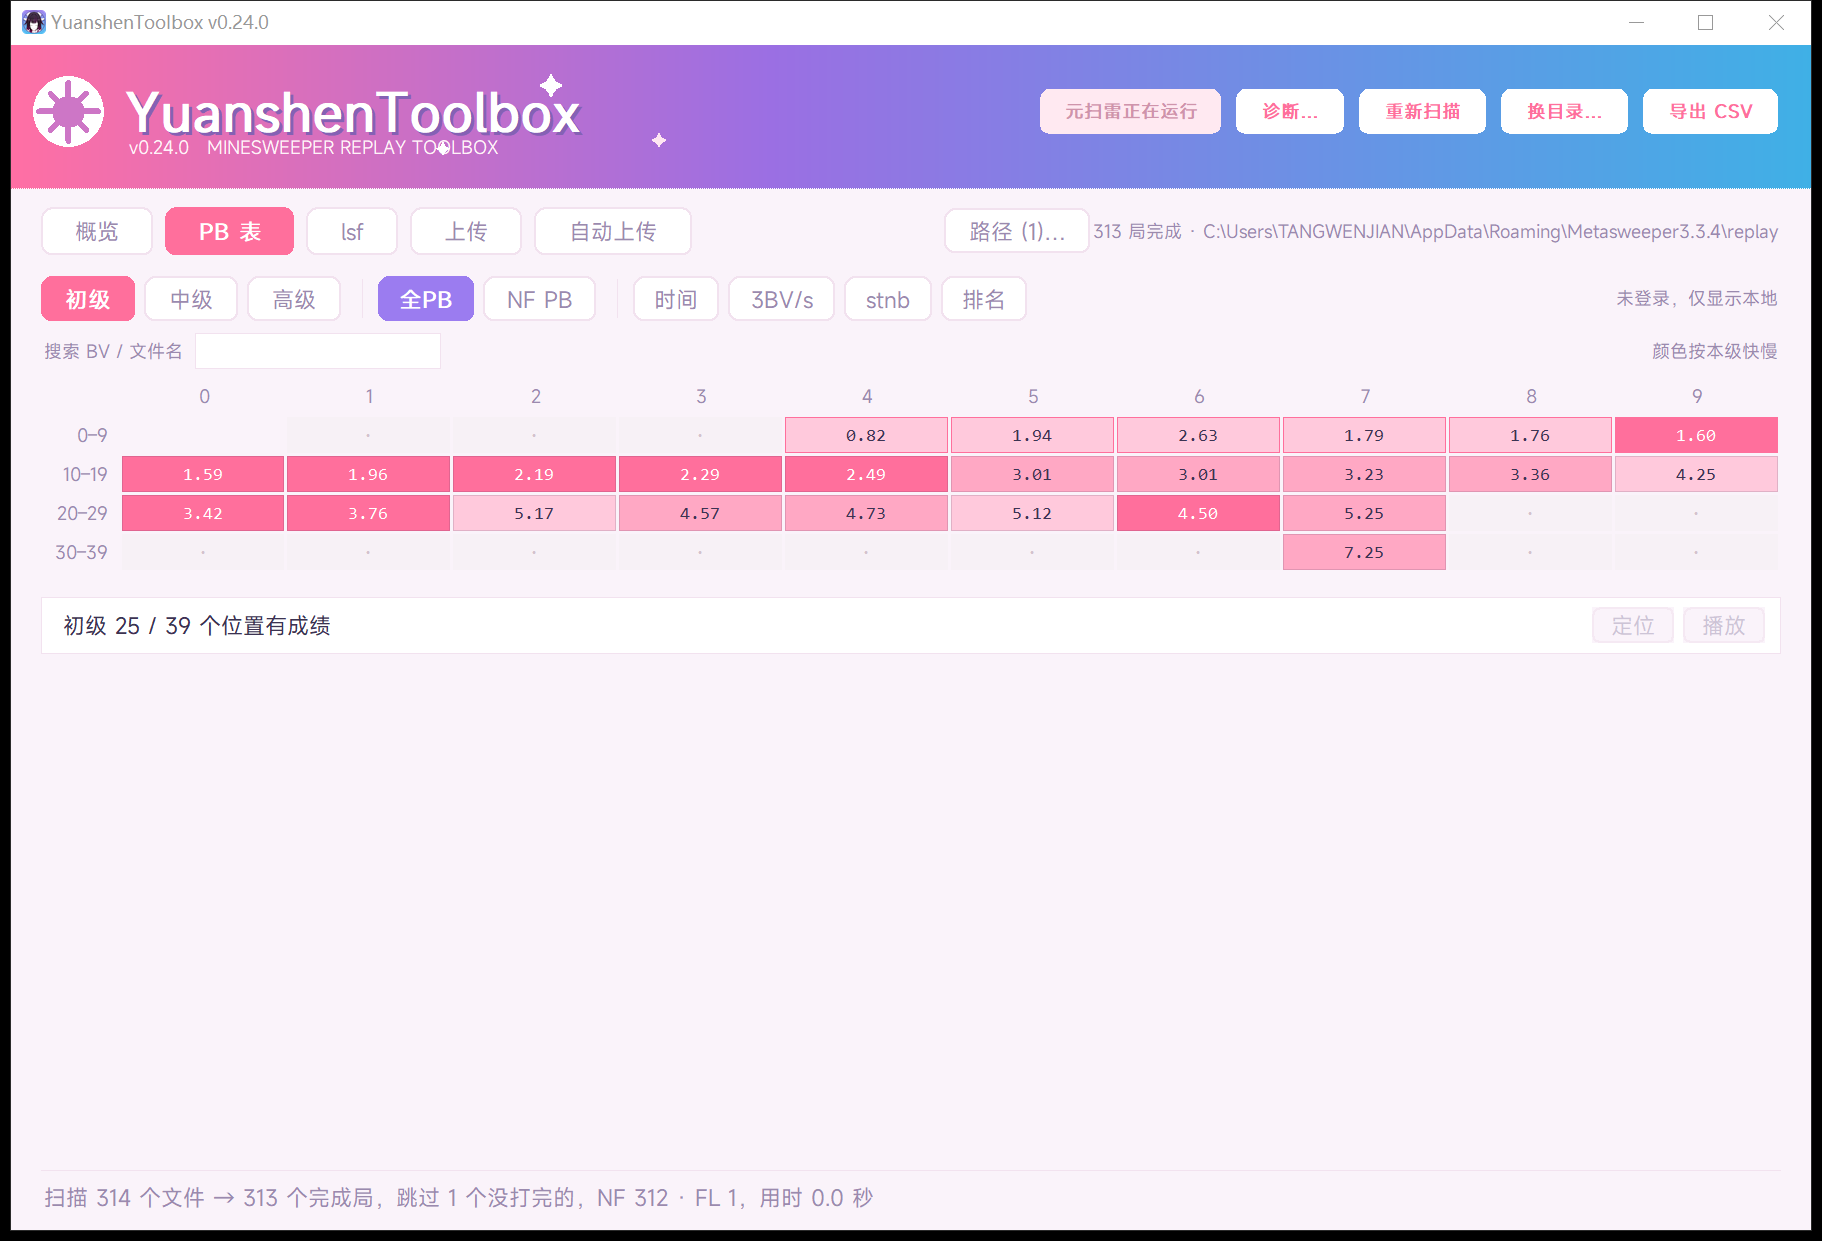
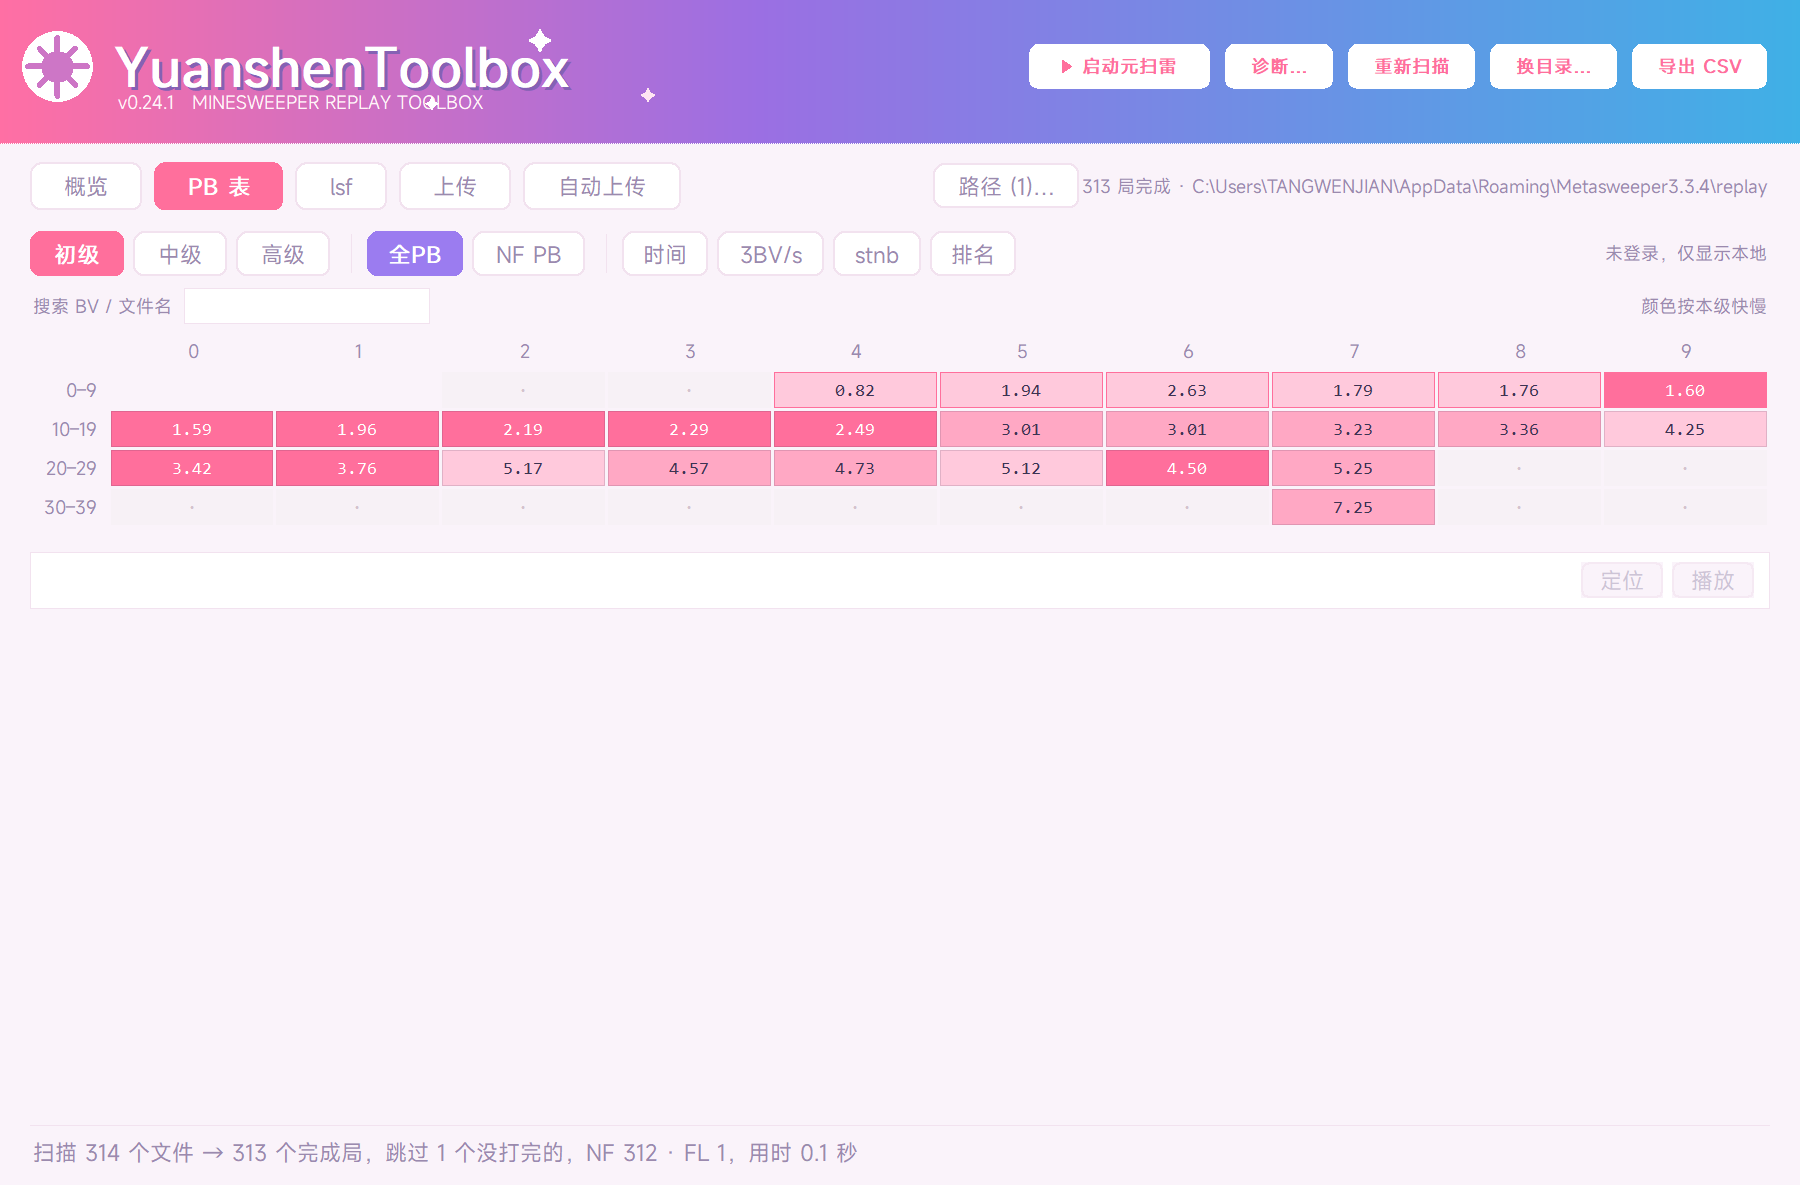
v0.24.1：PB 网格下限固定在级别起点，详情条去掉「几 / 个位置」
「初级 25 / 39 个位置有成绩」里的 39 是网格格数（本机最小 BV 到最大 BV
铺出来的格子），不是初级一共有多少 BV，看的人容易当成后者。上限按已有成绩
走也有代价：初级只打过 4–37，开头 0–9 段整段不出现，看不出这一段长什么样。

- 新增 PB_BV_FLOOR = {b: 2, i: 30, e: 100}：网格下限固定到级别起点，
  上限仍跟着已有最大 BV（画到它所在的那一段），不会平白多出一片空行。
- 初级 0–9 那行的 0、1 两格留空 —— BV 从 2 起，画出来只是噪声。
- 详情条不再报「N / M 个位置」，搜索时只留「搜到 N 个」。
- test_smoke 补四项：第一行从起点段开始、0/1 两格为空、最后一行到最大 BV
  那一段、三级最低 BV 都不低于起点（真低于起点就是成绩被网格遮掉，等于丢数据）。
- README 的网格说明同步规则，preview_pb.png 换成新截图。

build.cmd 过自检（version=0.24.1 / frozen=True），dist 与部署目录同为
27351581 字节 / 00:25，archive 留 YuanshenToolbox-v0.24.1.exe。

Changed region(s): [[0.0, 0.0, 1.0, 1.0], [0.9333, 0.4684, 0.9644, 0.5308]]

diff --git a/app.py b/app.py
@@ -33,7 +33,7 @@ import paths
 
 APP_TITLE = "YuanshenToolbox"
 APP_SUB = "MINESWEEPER REPLAY TOOLBOX"
-APP_VER = "0.24.0"
+APP_VER = "0.24.1"
 APP_DISPLAY = f"{APP_TITLE} v{APP_VER}"
 
 # 随程序打包的字体：MiSans（小米，免费商用）。私有注册，不装进系统字体目录。
@@ -964,6 +964,9 @@ PB_TONE = {
 }
 PB_EMPTY_BG = "#f7f1f6"
 PB_GATE = {"b": 10, "i": 30, "e": 100}       # 官方门槛，低于它的格子描一圈
+# 网格从哪开始画：下限固定，上限跟着已有成绩走（最大 BV 所在的那一段）。
+# 初级 0–9 那行里 0、1 两个位置留空 —— BV 从 2 起，空着比画出来好看。
+PB_BV_FLOOR = {"b": 2, "i": 30, "e": 100}
 FONT_PB = (FAM_MONO, 9)
 
 
@@ -1112,8 +1115,12 @@ class PBGrid(tk.Frame):
             return 0, 0
 
         self.empty_lbl.grid_remove()
-        lo = (bvs[0] // 10) * 10
-        hi = (bvs[-1] // 10) * 10
+        # 下限固定到级别起点（初级从 0–9 段开始画，段内 0、1 两格留空），
+        # 上限跟着本机已有的最大 BV 走 —— 没成绩的十位段整行留着，
+        # 「哪一段一格没有」才看得见。
+        floor = PB_BV_FLOOR.get(level, 1)
+        lo = (floor // 10) * 10
+        hi = max(lo, (bvs[-1] // 10) * 10)
         n = (hi - lo) // 10 + 1
         self._row_start = lo
         self._ensure_rows(n)
@@ -1127,7 +1134,8 @@ class PBGrid(tk.Frame):
         self._need_h = sc(24) + n * (sc(self.ROW_H) + sc(2))
         self._apply_height()
         self.cv.yview_moveto(0)
-        return len(bvs), n * self.COLS - (1 if lo < 1 else 0)
+        return len(bvs), n * self.COLS - sum(
+            1 for bv in range(lo, lo + n * self.COLS) if bv < floor)
 
     def set_hits(self, hits):
         self.hits = set(hits or ())
@@ -1193,13 +1201,14 @@ class PBGrid(tk.Frame):
     def _paint(self):
         tones = PB_TONE.get(self.level, PB_TONE["b"])
         gate = PB_GATE.get(self.level, 0)
+        floor = PB_BV_FLOOR.get(self.level, 1)
         tiers = self._tiers() if self.mode == "self" else {}
         for i, row in enumerate(self._cells):
             start = self._row_start + i * self.COLS
             self._rowlab[i].config(text="%d–%d" % (start, start + 9))
             for c, cell in enumerate(row):
                 bv = start + c
-                if bv < 1:                    # BV 从 1 起，第 0 列那个 0 不是格子
+                if bv < floor:                # 级别起点之前的格子留空
                     cell.config(text="", bg=C_BG, highlightbackground=C_BG,
                                 cursor="")
                     self._bv_of[cell] = None
@@ -5099,7 +5108,7 @@ class App(tk.Tk):
         self._pb_index = rows
         grid = self.pb_grid
         grid.set_counts(self.pb_counts)
-        n, cells = grid.bind_data(lv, self._pb_metric, rows, cat)
+        n, _cells = grid.bind_data(lv, self._pb_metric, rows, cat)
 
         hits = set()
         if q:
@@ -5117,14 +5126,13 @@ class App(tk.Tk):
         self.lbl_pb_hint.config(
             text=("颜色按全国名次" if grid.mode == "rank" else "颜色按本级快慢")
             if n else "")
-        if n:
-            text = "%s %d / %d 个位置有成绩" % (core.LEVEL_CN[lv], n, cells)
-            if q:
-                text += "，搜到 %d 个" % len(hits)
-            self.pb_detail.config(text=text, fg=C_TEXT)
-        else:
+        if not n:
             self.pb_detail.config(
                 text="%s还没有成绩" % core.LEVEL_CN[lv], fg=C_DIM)
+        elif q:
+            self.pb_detail.config(text="搜到 %d 个" % len(hits), fg=C_TEXT)
+        else:
+            self.pb_detail.config(text="", fg=C_TEXT)
 
         bits = []
         if self.site_pb:

diff --git a/test_smoke.py b/test_smoke.py
@@ -91,9 +91,24 @@ def main():
               set(cells) == set(idx)
               and all(i * 10 + c + grid._row_start == bv
                       for bv, (i, c) in cells.items()))
-        lo = (min(idx) // 10) * 10
-        check("第一行标签是 %d–%d" % (lo, lo + 9),
+        # 网格的起止：下限固定在级别起点，上限跟着已有最大 BV 走
+        floor = A.PB_BV_FLOOR["b"]
+        lo = (floor // 10) * 10
+        check("第一行从初级起点 %d–%d 开始" % (lo, lo + 9),
               grid._rowlab[0].cget("text") == "%d–%d" % (lo, lo + 9))
+        check("初级 BV 0 / 1 两格留空",
+              all(grid._bv_of.get(grid._cells[0][c]) is None
+                  for c in range(floor)))
+        hi = (max(idx) // 10) * 10
+        last = (hi - lo) // 10
+        check("最后一行是 %d–%d（网格到最大 BV 那一段为止）" % (hi, hi + 9),
+              grid._rowlab[last].cget("text") == "%d–%d" % (hi, hi + 9))
+        # 下限是死数，低于起点的成绩会被网格遮掉 —— 真出现就是丢数据
+        for lv in A.core.LEVELS:
+            got = {int(r["bv"]) for r in win.pb_rows if r["level"] == lv}
+            check("%s 最低 BV %d 不低于网格起点 %d"
+                  % (A.core.LEVEL_CN[lv], min(got), A.PB_BV_FLOOR[lv]),
+                  all(bv >= A.PB_BV_FLOOR[lv] for bv in got))
 
         # 搜索：只给命中格子描边，不把别的格子藏掉（藏了会造出假断层）
         bv0 = max(idx)
@@ -109,6 +124,8 @@ def main():
         check("页面上写出搜到几格", "搜到 1 个" in win.pb_detail.cget("text"))
         win.var_q.set("")
         win.render_pb()
+        check("详情条不再报「几个位置」",
+              "个位置" not in win.pb_detail.cget("text"))
 
         # 指标只换数字：格子位置、颜色都不该跟着动
         row0 = idx[bv0]

diff --git a/docs/CHANGELOG.md b/docs/CHANGELOG.md
@@ -20,6 +20,16 @@
 本地源码调试不占版本号；发版时只改 `APP_VER`，把 `## 未发布` 改成 `## vX.Y.Z`。
 已发布过的版本号不复用，哪怕只是「重打一次包」。
 
+## v0.24.1
+
+**PB 网格的行范围定下来：下限按级别起点，上限跟着打出来的最大 BV；详情条那句「几 / 几个位置」删掉。**
+
+- 网格以前从本机最小 BV 那一段开始画，开头几段没打过就整段不存在。现在固定从级别起点画：
+  初级 2、中级 30、高级 100；初级 0–9 那一行的 0、1 两格留空。
+- 上限仍然跟着已有的最大 BV 走（画到它所在的那一段），所以不会平白多出一大片没打过的空行。
+- 详情条原来那句「初级 25 / 39 个位置有成绩」去掉：分母只是网格里的格数，
+  不是这个级别一共有多少 BV，看的人容易当成全部。搜索时只显示「搜到 N 个」。
+
 ## v0.24.0
 
 **PB 表改成一张 3BV 网格，概览的「最近完成局」多了一列涨分。**

diff --git a/README.md b/README.md
@@ -46,8 +46,9 @@
 
 ### PB 表：一张 3BV 网格
 
-行是 BV 的十位段，列是个位，一格一个 BV。高级 14 行一屏看完（以前 87 行的列表要翻六屏），
-哪一段断着一眼就能看见。
+行是 BV 的十位段，列是个位，一格一个 BV。网格从本级别的起点开始画（初级 2、
+中级 30、高级 100，初级那一行的 0、1 两格留空），往上画到你打出的最大 BV 所在的那一段，
+中间没打过的段整行留着 —— 哪一段断着一眼就能看见。
 
 ![PB 网格](docs/preview_pb.png)
 
